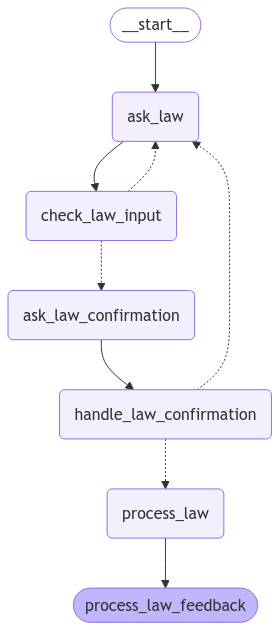
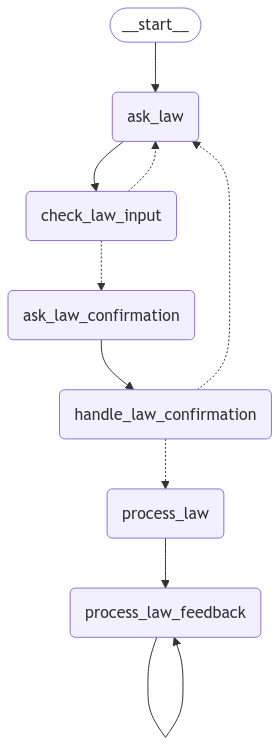
feat: support message chunks, improve flow

Changed region(s): [[0.0, 0.0, 0.9749, 0.7238], [0.2294, 0.754, 0.9462, 0.9952], [0.6308, 0.2714, 0.6595, 0.3016]]

diff --git a/importer/frontend/src/routes/+page.svelte b/importer/frontend/src/routes/+page.svelte
@@ -3,6 +3,7 @@
   import { tick } from 'svelte';
 
   type Message = {
+    id: string;
     content: string;
     isOwn: boolean;
     timestamp: Date;
@@ -26,16 +27,23 @@
   // Listen for messages
   socket.addEventListener('message', function (event) {
     // Parse the event data
-    const data = JSON.parse(event.data) as { content: string; quick_replies: string[] };
+    const data = JSON.parse(event.data) as { id: string; content: string; quick_replies: string[] };
 
-    messages = [
-      ...messages,
-      {
-        content: data.content,
-        isOwn: false,
-        timestamp: new Date(),
-      },
-    ]; // Note: instead of messages.push(...) to trigger Svelte reactivity, also below
+    // If the message ID equals the ID of the previous message, append it to the previous message
+    if (messages.length && messages[messages.length - 1].id === data.id) {
+      messages[messages.length - 1].content += `${data.content}`; // IMPROVE: also look at earlier messages, since the user may post a message in between?
+      messages = [...messages];
+    } else {
+      messages = [
+        ...messages,
+        {
+          id: data.id,
+          content: data.content,
+          isOwn: false,
+          timestamp: new Date(),
+        },
+      ]; // Note: instead of messages.push(...) to trigger Svelte reactivity, also below
+    }
 
     // If the message contains quick replies, show them
     quickReplies = data.quick_replies || [];
@@ -52,6 +60,7 @@
       messages = [
         ...messages,
         {
+          id: '',
           content: input,
           isOwn: true,
           timestamp: new Date(),

diff --git a/importer/backend/main.py b/importer/backend/main.py
@@ -34,6 +34,7 @@ class State(TypedDict):
 
 
 class WebSocketMessage(TypedDict):
+    id: str
     content: str
     quick_replies: List[str]
 
@@ -50,7 +51,9 @@ def ask_law(state: State, config: Dict) -> Dict:
     # Ask the user for the law name
     msg = "Wat is de naam van de wet?"
     asyncio.get_event_loop().create_task(
-        manager.send_message(WebSocketMessage(content=msg), thread_id)
+        manager.send_message(
+            WebSocketMessage(id=str(uuid.UUID), content=msg), thread_id
+        )
     )
 
     return {"messages": []}  # Note: we reset the messages
@@ -65,7 +68,10 @@ def check_law_input(state: State, config: Dict) -> Dict:
         thread_id = config["configurable"]["thread_id"]
         asyncio.get_event_loop().create_task(
             manager.send_message(
-                WebSocketMessage(content="De wetnaam moet minimaal 4 tekens bevatten."),
+                WebSocketMessage(
+                    id=str(uuid.UUID),
+                    content="De wetnaam moet minimaal 4 tekens bevatten.",
+                ),
                 thread_id,
             )
         )
@@ -85,10 +91,11 @@ def ask_law_confirmation(state: State, config: Dict) -> Dict:
 
     thread_id = config["configurable"]["thread_id"]
 
-    asyncio.get_event_loop().create_task(
+    asyncio.run(
         manager.send_message(
             WebSocketMessage(
-                content=f"Is dit de wet die je bedoelt? \n\n{metadata["title"]}\n{url}",
+                id=str(uuid.UUID),
+                content=f"Is dit de wet die je bedoelt?\n\n{metadata["title"]}\n{url}",
                 quick_replies=["Ja", "Nee"],
             ),
             thread_id,
@@ -140,6 +147,10 @@ def process_law(state: State, config: Dict) -> Dict:
 
     content = "\n\n".join(doc.page_content for doc in docs)
 
+    # Clip the law content to 100 characters for testing purposes. TODO: remove this
+    if len(content) > 100:
+        content = content[:100]
+
     # Add a human message to process the law
     result = model.invoke(analyize_law_prompt.format_messages(content=content))
 
@@ -149,9 +160,10 @@ def process_law(state: State, config: Dict) -> Dict:
 def process_law_feedback(state: State, config: Dict) -> Dict:
     print("----> process_law_feedback")
 
-    resp = interrupt("process_law_feedback")
+    user_input = interrupt("process_law_feedback")
+    state["messages"].append(HumanMessage(user_input))
 
-    return {"messages": [model.invoke([HumanMessage(resp)])]}
+    return {"messages": model.invoke(state["messages"])}
 
 
 # Add nodes
@@ -161,6 +173,7 @@ workflow.add_node("ask_law_confirmation", ask_law_confirmation)
 workflow.add_node("handle_law_confirmation", handle_law_confirmation)
 workflow.add_node("process_law", process_law)
 workflow.add_node("process_law_feedback", process_law_feedback)
+
 
 # Add edges
 workflow.set_entry_point("ask_law")
@@ -191,6 +204,7 @@ workflow.add_conditional_edges(
 )
 
 workflow.add_edge("process_law", "process_law_feedback")
+workflow.add_edge("process_law_feedback", "process_law_feedback")
 
 
 # Initialize memory to persist state between graph runs. IMPROVE: store persistently in Postgres
@@ -252,20 +266,15 @@ async def websocket_endpoint(websocket: WebSocket):
             # Process the received data through the workflow
             print("message received:", user_input)
 
-            for event in graph.stream(
+            for chunk, _ in graph.stream(
                 Command(resume=user_input),
                 {"configurable": {"thread_id": thread_id}},
-                stream_mode="values",
+                stream_mode="messages",
             ):
-                # In case of an AI message, send it back to the client
-                # pprint.pprint(event["messages"])
-                if event["messages"]:
-                    msg = event["messages"][-1]
-                    if isinstance(msg, AIMessage):
-                        await manager.send_message(
-                            WebSocketMessage(content=msg.content),
-                            thread_id,
-                        )
+                await manager.send_message(
+                    WebSocketMessage(id=chunk.id, content=chunk.content),
+                    thread_id,
+                )
 
     except WebSocketDisconnect:
         manager.disconnect(thread_id)
